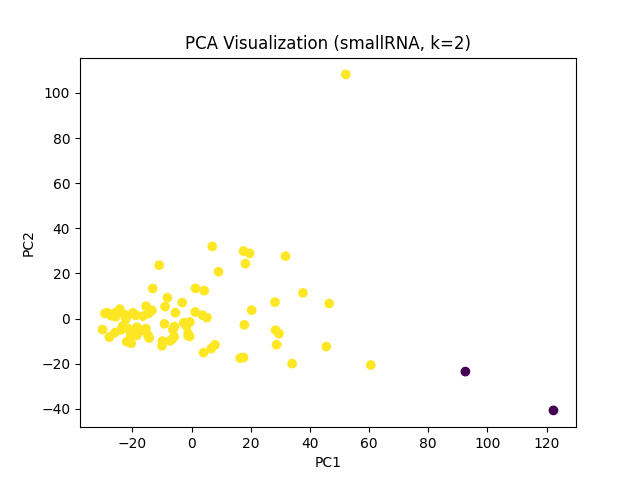
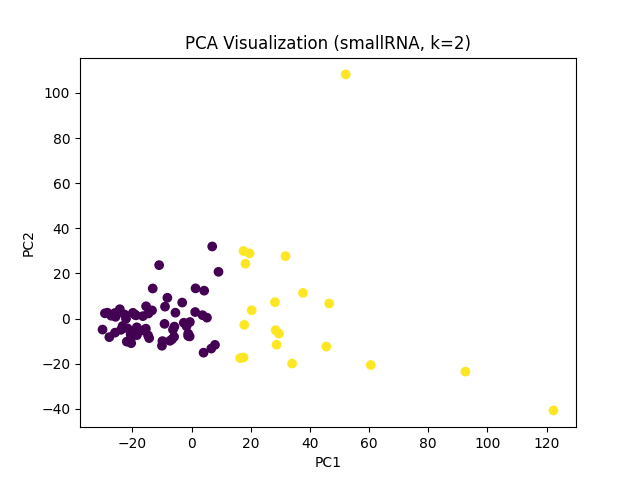
1

diff --git a/cluster_analysis1.py b/cluster_analysis1.py
@@ -13,6 +13,8 @@ from sklearn.cluster import KMeans
 # 可选： "smallRNA" 或 "RNA"
 # =========================
 DATA_TYPE = "smallRNA"   # smallRNA 或 RNA
+RANDOM_STATE = 42
+np.random.seed(RANDOM_STATE)
 
 
 # =========================
@@ -147,10 +149,17 @@ plt.show()
 
 
 # =========================
-# 5. 用最佳 K 做最终聚类
+# 5. 用最佳 K 做最终聚类   
 # =========================
-kmeans = KMeans(n_clusters=best_k, random_state=42)
+kmeans = KMeans(
+    n_clusters=best_k,
+    random_state=RANDOM_STATE,
+    n_init=50
+)
 cluster_labels = kmeans.fit_predict(X_scaled)
+
+# kmeans = KMeans(n_clusters=best_k,random_state=42)
+# cluster_labels = kmeans.fit_predict(X_scaled)
 
 
 # =========================
